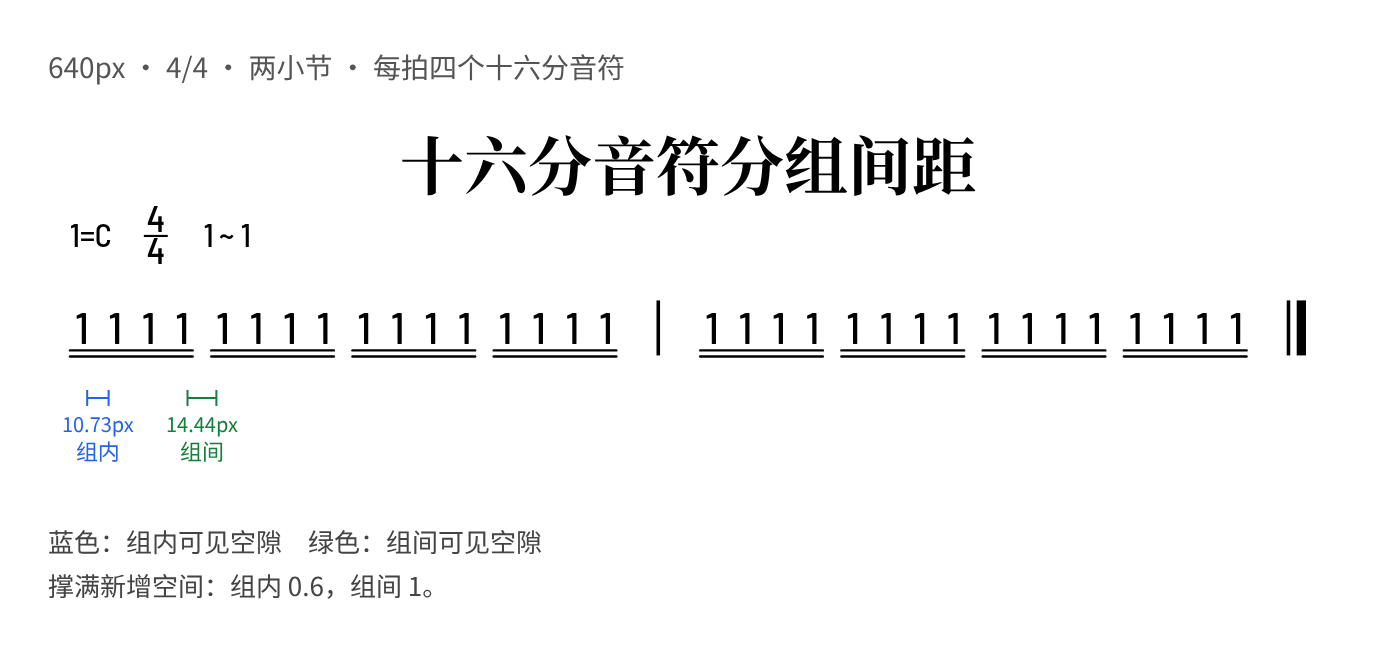
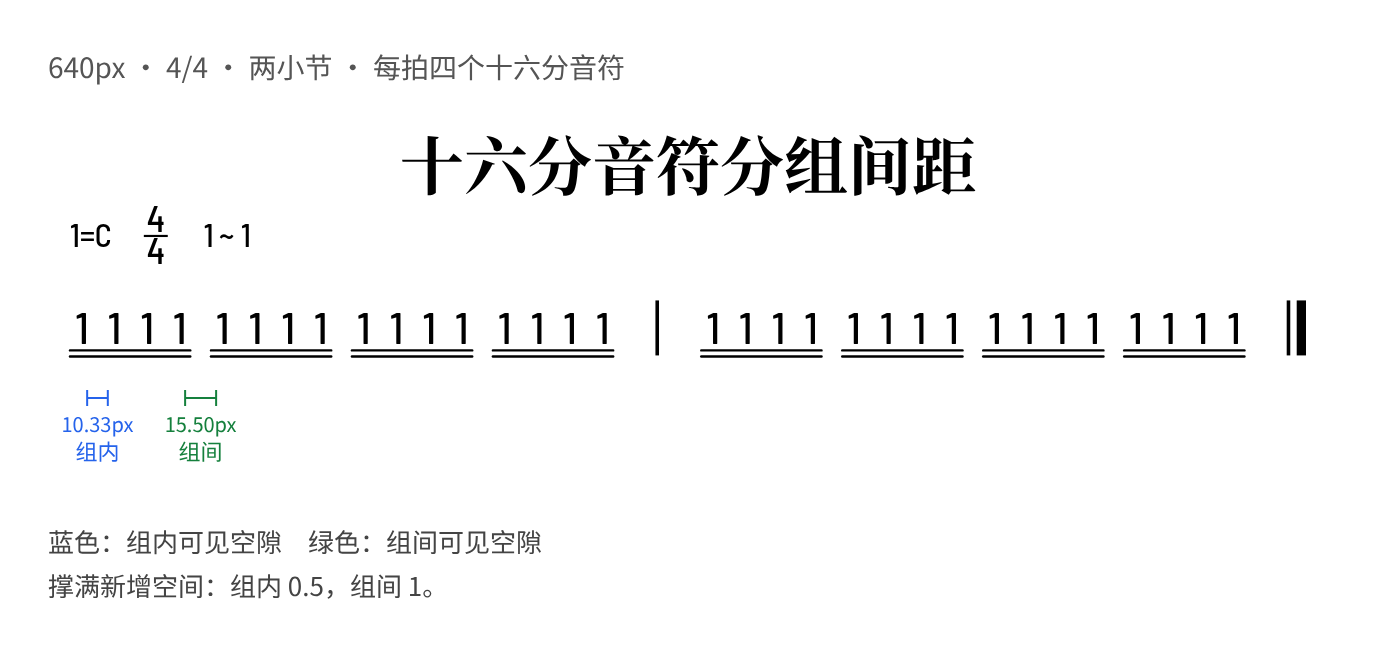
fix: tighten beam group spacing coefficient to 0.5

diff --git a/packages/jpfun/test/beam.test.ts b/packages/jpfun/test/beam.test.ts
@@ -27,10 +27,10 @@ test("相邻分割音符自动连梁，并按比例缩短内侧弹簧", () => {
     assert(adjacentAutoBeamResult.attachments.length === 1, "separate divided notes must auto-connect by default");
     const [beamFirst, beamMiddle, beamLast] = adjacentAutoBeamResult.objects;
     assert(beamFirst.springConfig.alpha_L === 6, "a beam must not shorten the outside left spring");
-    assert(nearly(beamFirst.springConfig.alpha_R as number, 3.6), "a beam must shorten its first inside spring to 60%");
-    assert(nearly(beamMiddle.springConfig.alpha_L as number, 3.6), "a middle beam element must shorten its left spring");
-    assert(nearly(beamMiddle.springConfig.alpha_R as number, 3.6), "a middle beam element must shorten its right spring");
-    assert(nearly(beamLast.springConfig.alpha_L as number, 3.6), "a beam must shorten its final inside spring");
+    assert(nearly(beamFirst.springConfig.alpha_R as number, 3), "a beam must shorten its first inside spring to 50%");
+    assert(nearly(beamMiddle.springConfig.alpha_L as number, 3), "a middle beam element must shorten its left spring");
+    assert(nearly(beamMiddle.springConfig.alpha_R as number, 3), "a middle beam element must shorten its right spring");
+    assert(nearly(beamLast.springConfig.alpha_L as number, 3), "a beam must shorten its final inside spring");
     assert(beamLast.springConfig.alpha_R === 6, "a beam must not shorten the outside right spring");
     assert(nearly(beamMiddle.springConfig.beta_L as number, 1 / 6), "beam alpha changes must not implicitly recompute completed beta");
     assert(recordCommands(adjacentAutoBeamResult).filter(command => command.kind === "line").length === 2,
@@ -60,8 +60,8 @@ test("autobeam=false 只断开分写的 div，不断开一个作用域内部", (
 
     const disabledScopeBeamResult = layoutOf(`@set(div.autobeam=false) @div({1 2}, 1)`);
     assert(disabledScopeBeamResult.attachments.length === 1, "autobeam=false must not disable connections inside one div");
-    assert(nearly(disabledScopeBeamResult.objects[0].springConfig.alpha_R as number, 3.6), "one div scope must shorten its inside right spring");
-    assert(nearly(disabledScopeBeamResult.objects[1].springConfig.alpha_L as number, 3.6), "one div scope must shorten its inside left spring");
+    assert(nearly(disabledScopeBeamResult.objects[0].springConfig.alpha_R as number, 3), "one div scope must shorten its inside right spring");
+    assert(nearly(disabledScopeBeamResult.objects[1].springConfig.alpha_L as number, 3), "one div scope must shorten its inside left spring");
     assert(recordCommands(disabledScopeBeamResult).filter(command => command.kind === "line").length === 1,
         "one div scope must keep one merged line while auto beam is disabled");
 });

diff --git a/packages/numbered-notation/src/native-spacing.test.ts b/packages/numbered-notation/src/native-spacing.test.ts
@@ -11,22 +11,22 @@ describe('native spacing constraints', () => {
   it('allocates positive surplus by beam weights and preserves rigid offsets', () => {
     const columns = [
       { cells: [cell()], fixedAfter: 10 },
-      { cells: [cell('melody', { afterStretch: .6 })] },
-      { cells: [cell('melody', { beforeStretch: .6 })] },
+      { cells: [cell('melody', { afterStretch: .5 })] },
+      { cells: [cell('melody', { beforeStretch: .5 })] },
       { cells: [cell()] },
     ]
     const natural = solveNativeSpacing(columns).positions
     const filled = solveNativeSpacing(columns, 200, true).positions
     const growth = (i: number) => filled[i + 1]! - filled[i]! - natural[i + 1]! + natural[i]!
     expect(filled[1]! - filled[0]!).toBe(10)
-    expect(growth(1) / growth(2)).toBeCloseTo(.6, 10)
+    expect(growth(1) / growth(2)).toBeCloseTo(.5, 10)
     expect(filled[0]).toBe(5)
     expect(filled.at(-1)).toBe(195)
   })
   it('uses the largest voice weight for a shared gap', () => {
     const columns = [
-      { cells: [cell('melody', { afterStretch: .6 }), cell('bass')] },
-      { cells: [cell('melody', { beforeStretch: .6 }), cell('bass')] },
+      { cells: [cell('melody', { afterStretch: .5 }), cell('bass')] },
+      { cells: [cell('melody', { beforeStretch: .5 }), cell('bass')] },
       { cells: [cell(), cell('bass')] },
     ]
     expect(solveNativeSpacing(columns, 100, true).positions).toEqual([5, 50, 95])

diff --git a/packages/numbered-notation/src/native-horizontal.test.ts b/packages/numbered-notation/src/native-horizontal.test.ts
@@ -104,15 +104,15 @@ describe('native spacing and measured note envelopes', () => {
       + '\n---\nN: ||: 0 0 (0 3) (6 7) | (1e 3) (1e 7~) (7 6) (5 6~) |'
     const result = layout(source)
     const boundary = result.projection.measures[8]!
-    expect(boundary.naturalEnd! - boundary.naturalStart!).toBeCloseTo(102.72057272681, 5)
+    expect(boundary.naturalEnd! - boundary.naturalStart!).toBeCloseTo(101.7871917756413, 5)
     const opening = result.projection.measures[9]!
-    expect(opening.naturalEnd! - opening.naturalStart!).toBeCloseTo(187.64324862417, 5)
+    expect(opening.naturalEnd! - opening.naturalStart!).toBeCloseTo(185.77648672183682, 5)
     expect(result.systems.map(system => system.measures.length)).toEqual([6, 5])
   })
 
   it('balances dense bars and keeps equally scored short rows last in narrow 卡农', () => {
     const result = layout(readFileSync(new URL('../../../src/scores/canon_01.m3n', import.meta.url), 'utf8'), 320)
-    expect(result.systems).toHaveLength(53)
+    expect(result.systems).toHaveLength(52)
     expect(result.systems.slice(-5).map(system => system.measures.map(measure => measure.index + 1)))
       .toEqual([[53, 54], [55, 56], [57, 58], [59], [60, 61]])
   })

diff --git a/packages/jpfun/src/functions/beam/layout.ts b/packages/jpfun/src/functions/beam/layout.ts
@@ -137,10 +137,10 @@ class BeamLayoutAttachment implements LayoutAttachment {
                     const left = run[i - 1];
                     const right = run[i];
                     if (!endPoints.has(left) || !endPoints.has(right)) continue;
-                    left.springConfig.stretch_R = (left.springConfig.stretch_R ?? 1) * 0.6;
-                    right.springConfig.stretch_L = (right.springConfig.stretch_L ?? 1) * 0.6;
-                    left.springConfig.alpha_R = (left.springConfig.alpha_R as number) * 0.6;
-                    right.springConfig.alpha_L = (right.springConfig.alpha_L as number) * 0.6;
+                    left.springConfig.stretch_R = (left.springConfig.stretch_R ?? 1) * 0.5;
+                    right.springConfig.stretch_L = (right.springConfig.stretch_L ?? 1) * 0.5;
+                    left.springConfig.alpha_R = (left.springConfig.alpha_R as number) * 0.5;
+                    right.springConfig.alpha_L = (right.springConfig.alpha_L as number) * 0.5;
                 }
             }
         }

diff --git a/packages/jpfun/test/note-gap-floor.test.ts b/packages/jpfun/test/note-gap-floor.test.ts
@@ -10,7 +10,7 @@ for (const level of [0, 1, 2, 3, 4]) test(`minimum rhythmic clearance retains it
         const boxes = result.layout.objects.map(node => getLayoutBounds(node));
         return boxes.slice(1).map((box, index) => box.x - boxes[index].x - boxes[index].w);
     };
-    const rhythm = Math.sqrt(2 ** -level) * (level ? .6 : 1);
+    const rhythm = Math.sqrt(2 ** -level) * (level ? .5 : 1);
     for (const base of [8.8, 13.2]) for (const gap of measure(base, 2.2))
         assert.ok(Math.abs(gap - Math.max(base * rhythm, 2.2)) < 1e-6);
     for (const gap of measure(8.8, 0)) assert.ok(Math.abs(gap - 8.8 * rhythm) < 1e-6);
@@ -29,5 +29,5 @@ test('justification surplus retains the beam grouping ratio', () => {
     const growth = (i: number) => justified[i + 1] - justified[i] - natural[i + 1] + natural[i];
     assert.ok(growth(3) > 0);
     for (const i of [0, 1, 2, 4, 5, 6])
-        assert.ok(Math.abs(growth(i) / growth(3) - 0.6) < 1e-8);
+        assert.ok(Math.abs(growth(i) / growth(3) - 0.5) < 1e-8);
 });

diff --git a/packages/numbered-notation/src/native-horizontal.ts b/packages/numbered-notation/src/native-horizontal.ts
@@ -117,10 +117,10 @@ function itemsFor(measures: NativeMeasure[], options: HorizontalOptions, surroun
     const left = previous?.item.column?.glyphs.find(glyph => glyph.lane === cell.lane)
     const right = item.column?.glyphs.find(glyph => glyph.lane === cell.lane)
     if (previous?.item.measure === item.measure && left && right && nativeBeamCount(left, right)) {
-      previous.cell.afterStretch = (previous.cell.afterStretch ?? 1) * 0.6
-      cell.beforeStretch = (cell.beforeStretch ?? 1) * 0.6
-      previous.cell.after *= 0.6
-      cell.before *= 0.6
+      previous.cell.afterStretch = (previous.cell.afterStretch ?? 1) * 0.5
+      cell.beforeStretch = (cell.beforeStretch ?? 1) * 0.5
+      previous.cell.after *= 0.5
+      cell.before *= 0.5
     }
     previousByLane.set(cell.lane, { item, cell })
   }

diff --git a/packages/jpfun/test/grace.test.ts b/packages/jpfun/test/grace.test.ts
@@ -37,7 +37,7 @@ const preGraceNode = preGrace.result.objects[0] as VisualTemporalNode & {
 
 test("刚性倚音组仍保留随字号与书面时值变化的自然净空", () => {
     for (const size of [16, 22, 32]) for (const side of ["pre", "post"]) {
-        for (const [music, expected] of [["2/ 3/", 3.6], ["2/ 3//", 3.6 * (0.5 + Math.sqrt(0.125))]] as const) {
+        for (const [music, expected] of [["2/ 3/", 3], ["2/ 3//", 3 * (0.5 + Math.sqrt(0.125))]] as const) {
             const source = `@set(fontsize=${size}) @grace(1,{${music}},side=${side})`;
             const {result,commands} = layoutGrace(source);
             const [left, right] = (result.objects[0] as GraceTemporal).graces;

diff --git a/packages/jpfun/src/functions/grace/index.ts b/packages/jpfun/src/functions/grace/index.ts
@@ -498,7 +498,7 @@ export class GraceTemporal extends TemporalNodeBase {
         transferFunctionAddons(this, this.host);
         // A rigid group keeps the short natural clearance of joined grace
         // beams. Host/other local composites continue to use zero margins.
-        const block = context.layoutSubdomain!(this, this.graceColumns, this.root, this.attachments, this.ast.size * (12 / 22) * 0.6);
+        const block = context.layoutSubdomain!(this, this.graceColumns, this.root, this.attachments, this.ast.size * (12 / 22) * 0.5);
         const hostWidth = layoutLocalSequence([this.host], context);
         this.springConfig = { ...this.host.springConfig, ...this.springConfig };
 

diff --git a/packages/jpfun/test/midi.test.ts b/packages/jpfun/test/midi.test.ts
@@ -460,7 +460,7 @@ test("MIDI 默认自动换行，barsPerLine 正数可强制覆盖", () => {
     const naturalWidths = naturalSystemWidths(defaulted);
     const contentWidth = DEFAULT_PAGE_CONFIG.width
         - DEFAULT_PAGE_CONFIG.marginLeft - DEFAULT_PAGE_CONFIG.marginRight;
-    assert(naturalWidths.every(width => width >= contentWidth * 0.85)
+    assert(naturalWidths.every(width => width >= contentWidth * 0.8)
         && Math.max(...naturalWidths) - Math.min(...naturalWidths) < 1e-6,
     `离散小节无法撑满时应保持均衡且不得留下极短尾行，实际 ${naturalWidths}：${defaulted}`);
     assert(systemCount(chord) === systemCount(defaulted),

diff --git a/packages/numbered-notation/src/native-grace.test.ts b/packages/numbered-notation/src/native-grace.test.ts
@@ -45,7 +45,7 @@ describe('measured native grace blocks', () => {
     const body = nativeNoteBody(normal,grace.size)
     const logicalLeft = -body.width / 2 - nativeAccidentalAdvance(accidental,grace.size)
     const [first, second] = grace.notes
-    const gap = nativeStyle.music * (6 / 22) * .6
+    const gap = nativeStyle.music * (6 / 22) * .5
     expect(second!.x + logicalLeft - (first!.x + Math.max(body.width / 2,first!.ink.right))).toBeCloseTo(gap,3)
     expect(-grace.left).toBeLessThanOrEqual(first!.x + logicalLeft + .0001)
     expect(grace.left - 6 - grace.sideGap).toBeCloseTo(grace.width,3)

diff --git a/packages/numbered-notation/src/note-spacing.test.ts b/packages/numbered-notation/src/note-spacing.test.ts
@@ -21,7 +21,7 @@ it.each([0, 1, 2, 3, 4])('retains the 0.1em floor after rhythmic and beam scalin
     const [first, second] = projection.glyphs
     return second!.x - first!.x - first!.right - second!.left
   }
-  const expected = 8.8 * Math.sqrt(2 ** -level) * (level ? .6 : 1)
+  const expected = 8.8 * Math.sqrt(2 ** -level) * (level ? .5 : 1)
   // The native iterative solver retains its existing subpixel tolerance.
   expect(gap(.1)).toBeCloseTo(Math.max(expected, 2.2), 1)
   if (level >= 3) expect(gap(.1)).toBeGreaterThan(gap(0))

diff --git a/packages/numbered-notation/src/native-grace.ts b/packages/numbered-notation/src/native-grace.ts
@@ -41,7 +41,7 @@ export function nativeGraceGeometry(pitches: readonly NativeGracePitch[], mainLe
   let end = 0
   for (const [index, note] of notes.entries()) {
     const previous = notes[index - 1]
-    const gap = previous ? nativeStyle.music * (6 / 22) * 0.6 * (Math.sqrt(previous.beats) + Math.sqrt(note.beats)) : 0
+    const gap = previous ? nativeStyle.music * (6 / 22) * 0.5 * (Math.sqrt(previous.beats) + Math.sqrt(note.beats)) : 0
     note.x = end + gap - note.footprint.left
     end = note.x + note.footprint.right
   }
